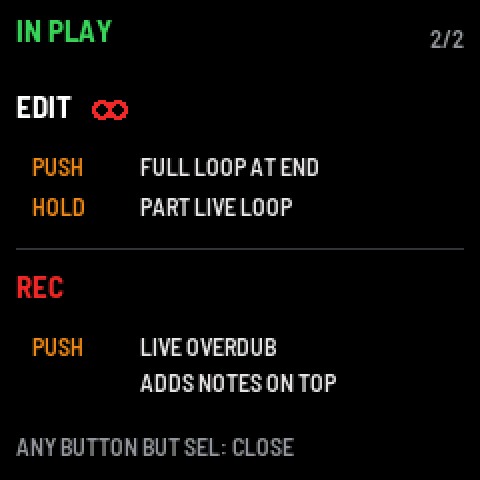
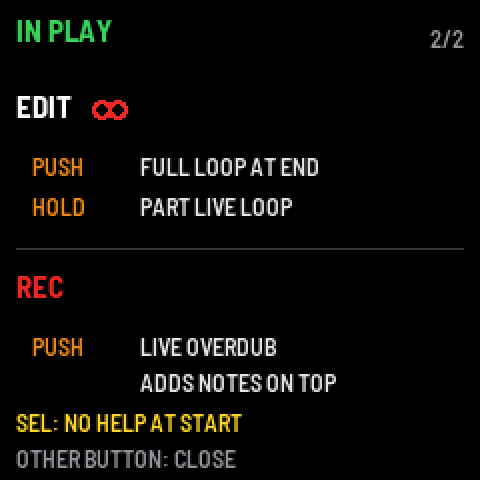
Nine families, SEL turns the help pages off; doc 20 and doc 22 (CORE c613e4e)
Claude-Session: https://claude.ai/code/session_01N9f4HJn3ZZ4mEGDi7YNfQW

Changed region(s): [[0.0312, 0.8438, 0.625, 1.0]]

diff --git a/docs/_EN/22-screen-keyboard-and-menus.md b/docs/_EN/22-screen-keyboard-and-menus.md
@@ -18,7 +18,7 @@ Each key shows its name (3 characters at most, written top to bottom); a dark or
 
 ## Help at start
 
-Two pages in turn every 3 s. Notes and SEL (NOTE on the SMK-37) leave them up; any other button or a knob closes them and does its job. A logo cut short skips them. OPTION CONTROL: HELP AT START.
+Two pages in turn every 3 s. Notes leave them up; SEL (NOTE on the SMK-37) turns them off for good; any other button or a knob closes them and does its job. A logo cut short skips them. OPTION CONTROL: HELP AT START.
 
 <p><img src="../img/screen-help-1.png" width="320" alt="KEY COLOURS"> <img src="../img/screen-help-2.png" width="320" alt="IN PLAY"></p>
 
@@ -278,13 +278,13 @@ PRESET goes through them in this order, OCT− / OCT+ jump from one family to th
 
 | Family | Sounds |
 |---|---|
-| **F1 ACID** | 1 ACID 303, 2 ACID SQUARE, 3 ACID SCREAM, 4 SQUELCH, 5 SCREECH, 6 GRUNGE, 7 TALK |
-| **F2 BASSES** | 8 BASS, 9 SUB, 10 DEEP SUB, 11 BOOM, 12 PSY BASS, 13 REESE, 14 WOBBLE, 15 ACID DEEP |
-| **F3 DRUMS** | 16 DRUMS 808, 17 DRUMS 909, 18 DRUMS TIGHT, 19 DRUMS LOFI, 20 DRUMS IRON |
-| **F4 PUNCH** | 21 LEAD, 22 GOA LEAD, 23 HOOVER, 24 ARP, 25 PLUCK, 26 STAB, 27 BRASS, 28 ORGAN, 29 VINTAGE KEYS |
-| **F5 MINIMAL** | 30 RUBBER, 31 BLEEP, 32 CLICK, 33 DROPS, 34 BLIP, 35 METAL |
-| **F6 UNDER** | 36 DUB CHORD, 37 DEEP STAB, 38 DEEP PAD, 39 RUMBLE, 40 DRONE, 41 HOLD, 42 PLATE, 43 CREAK, 44 WIND |
-| **F7 WORLD** | 45 RAVE SAX, 46 LUTE, 47 FLUTE, 48 BAGPIPE |
-| **F8 SFX** | 49 NOISE, 50 RISER, 51 DOWNLIFTER, 52 ZAP, 53 LASER, 54 SHAKER, 55 THUNDER, 56 RAIN, 57 DUB SIREN |
-| **F9 SOFT** | 58 POLY, 59 PAD, 60 STRINGS, 61 STRINGS 70, 62 SWEEP, 63 WHALE, 64 CHOIR, 65 INIT |
+| **F1 ACID** | 1 ACID 303, 2 SQUELCH, 3 ACID SQUARE, 4 ACID DEEP, 5 ACID SCREAM, 6 TALK |
+| **F2 BASS** | 7 BASS, 8 SUB, 9 REESE, 10 PSY BASS, 11 DEEP SUB, 12 BOOM, 13 RUBBER, 14 WOBBLE |
+| **F3 DRUMS** | 15 DRUMS 808, 16 DRUMS 909, 17 DRUMS TIGHT, 18 DRUMS LOFI, 19 DRUMS IRON |
+| **F4 PERC** | 20 PLUCK, 21 BLEEP, 22 CLICK, 23 METAL, 24 PLATE, 25 BLIP, 26 DROPS |
+| **F5 LEAD** | 27 LEAD, 28 GOA LEAD, 29 HOOVER, 30 ARP, 31 RAVE SAX, 32 BRASS, 33 BAGPIPE, 34 INIT |
+| **F6 KEYS** | 35 STAB, 36 DEEP STAB, 37 DUB CHORD, 38 POLY, 39 ORGAN, 40 VINTAGE KEYS, 41 LUTE |
+| **F7 SOFT** | 42 PAD, 43 STRINGS, 44 DEEP PAD, 45 STRINGS 70, 46 CHOIR, 47 SWEEP, 48 FLUTE, 49 WHALE |
+| **F8 FX** | 50 RISER, 51 DOWNLIFTER, 52 NOISE, 53 ZAP, 54 LASER, 55 DUB SIREN, 56 SHAKER, 57 RAIN, 58 THUNDER |
+| **F9 DARK** | 59 DRONE, 60 RUMBLE, 61 WIND, 62 HOLD, 63 CREAK, 64 GRUNGE, 65 SCREECH |
 | **US USER** | USER 1–8: your sounds, named after their origin ("U3 ACID 303", "U3 -- NA --" when it is unknown) |

diff --git a/docs/_FR/21-commandes-fm1-smk37.md b/docs/_FR/21-commandes-fm1-smk37.md
@@ -59,7 +59,7 @@ pédale, plus de touches).
 | DRUM KEYS | ORIGINAL / GM | la carte des touches de batterie |
 | PERC 1–4 (FM-1) / 1–6 (SMK-37) | 10 percussions | ce que joue chaque Ré# / Sol# de la batterie |
 | KEYS ON SCREEN | ON / OFF | le clavier à l'écran quand une couche est tenue |
-| HELP AT START | ON / OFF | après le logo, deux pages d'aide qui alternent toutes les 3 s : KEY COLOURS (bleu, rose, menthe) et IN PLAY (EDIT tapé : FULL LOOP AT END, tenu : PART LIVE LOOP ; REC : LIVE OVERDUB). Les notes et SEL (NOTE sur le SMK-37) les laissent ; tout autre bouton ou un bouton rotatif les ferme (et fait son travail). Un logo coupé avant la fin (une touche, un bouton) les saute |
+| HELP AT START | ON / OFF | après le logo, deux pages d'aide qui alternent toutes les 3 s : KEY COLOURS (bleu, rose, menthe) et IN PLAY (EDIT tapé : FULL LOOP AT END, tenu : PART LIVE LOOP ; REC : LIVE OVERDUB). Les notes les laissent ; SEL (NOTE sur le SMK-37) les coupe pour de bon (HELP AT START OFF, cet appui ne fait rien d'autre) ; tout autre bouton ou un bouton rotatif les ferme (et fait son travail). Un logo coupé avant la fin (une touche, un bouton) les saute |
 | T1–T4, A NEW SOUND | SAME PAGE / une page | la page de boutons qu'amène un nouveau son |
 
 ## Voyants

diff --git a/docs/_EN/21-fm1-smk37-controls.md b/docs/_EN/21-fm1-smk37-controls.md
@@ -58,7 +58,7 @@ Same behaviour on both; the SMK-37 only adds what it has more (pads, faders, whe
 | DRUM KEYS | ORIGINAL / GM | the drum keys' map |
 | PERC 1–4 (FM-1) / 1–6 (SMK-37) | 10 percussions | what each drum D# / G# plays |
 | KEYS ON SCREEN | ON / OFF | the screen keyboard while a layer is held |
-| HELP AT START | ON / OFF | after the logo, two help pages in turn every 3 s: KEY COLOURS (blue, pink, mint) and IN PLAY (EDIT tapped: FULL LOOP AT END, held: PART LIVE LOOP; REC: LIVE OVERDUB). Notes and SEL (NOTE on the SMK-37) leave them up; any other button or a knob closes them (and does its job). A logo cut short (a key, a button) skips them |
+| HELP AT START | ON / OFF | after the logo, two help pages in turn every 3 s: KEY COLOURS (blue, pink, mint) and IN PLAY (EDIT tapped: FULL LOOP AT END, held: PART LIVE LOOP; REC: LIVE OVERDUB). Notes leave them up; SEL (NOTE on the SMK-37) turns them off for good (HELP AT START OFF, that press does nothing else); any other button or a knob closes them (and does its job). A logo cut short (a key, a button) skips them |
 | T1–T4, A NEW SOUND | SAME PAGE / a page | the knob page a new sound brings |
 
 ## Lights

diff --git a/CHANGELOG.md b/CHANGELOG.md
@@ -1,5 +1,12 @@
 # Changelog
 
+## 20 November 2026 — nine new families; SEL on the help pages turns them off
+
+- The 65 sounds in nine families, the most played first in each: ACID, BASS, DRUMS, PERC (short tones), LEAD, KEYS
+  (stabs, chords, keys), SOFT, FX, DARK (drones and the harsh ones); USER last. The sounds' numbers in saves are kept.
+- On the help pages SEL (NOTE on the SMK-37) turns HELP AT START off for good ("SEL: NO HELP AT START"), and that
+  press does nothing else (no tracks layer); another button closes them.
+
 ## 20 November 2026 — LOOP REC on EDIT, SAVE on A, sounds
 
 - EDIT tapped while playing arms a loop take: the first note starts it (the line paints green), EDIT again or a menu
